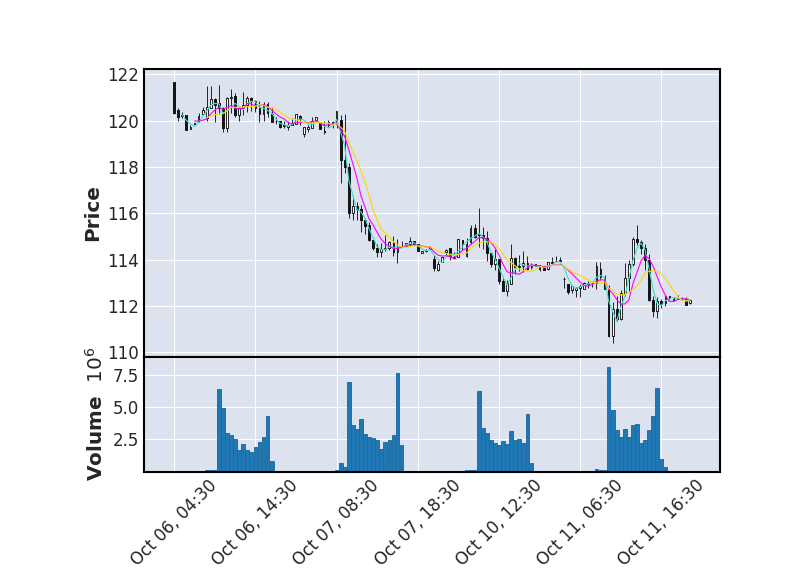
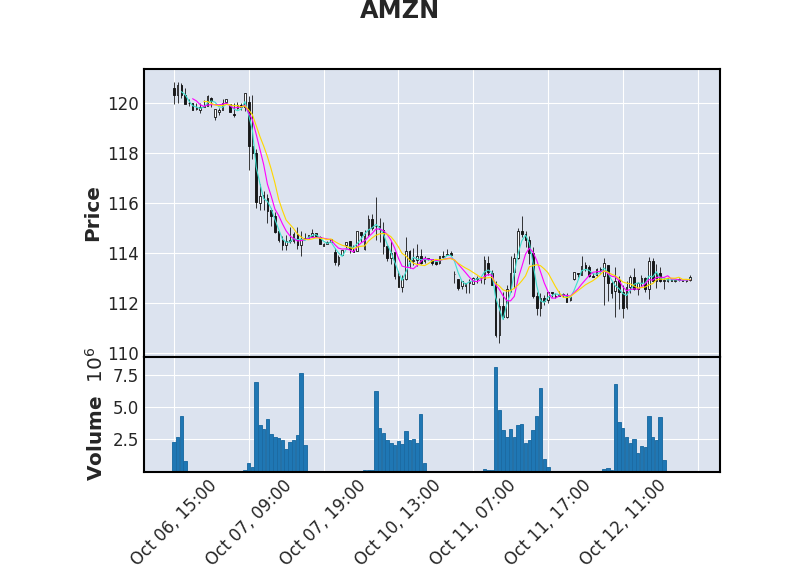
final con test funcionando

diff --git a/dags/modules/report.py b/dags/modules/report.py
@@ -6,6 +6,17 @@ from modules.ingest_data import stock_symbol
 
 engine = create_engine('postgresql://airflow:airflow@postgres:5432/stocks')
 
+
+def query(company):
+    #symbol = stock_symbol.get(company)
+    consulta = f"select * from stocks_values"
+    respuesta= pd.read_sql(consulta, engine)
+
+    query = respuesta.loc[respuesta['symbol']==company, ['fecha', 'v_open', 'v_high', 'v_low' ,'v_close', 'volume', 'symbol']].set_index('fecha').sort_index(ascending=True).rename(columns={'v_open': 'Open', 'v_high': 'High','v_low':'Low', 'v_close': 'Close', 'volume': 'Volume'})
+    #print(respuesta)
+    return query
+
+
 def reporting():
     for company, symbol in stock_symbol.items():
 
@@ -17,4 +28,4 @@ def reporting():
         #print(query)
         
         print(f'Drawing report for {company}  -  {symbol}')
-        mpf.plot(query, type='candle', mav=(3,6,9), volume=True, savefig= f'/opt/airflow/dags/reports/{company}-{symbol}.png')
+        mpf.plot(query, type='candle', mav=(3,6,9), volume=True, title =f'{symbol}' ,savefig= f'/opt/airflow/dags/reports/{company}-{symbol}.png')

diff --git a/dags/test/test_report.py b/dags/test/test_report.py
@@ -1,0 +1,11 @@
+import sys; sys.path.insert(1, '/opt/airflow/dags')
+import pytest
+from modules.report import query
+
+
+#print(query('GOOG')['symbol'].unique()[0])
+
+def test_db_query():
+    assert query('GOOG')['symbol'].unique()[0] == 'GOOG'
+    assert query('AMZN')['symbol'].unique()[0] == 'AMZN'
+    assert query('MSFT')['symbol'].unique()[0] == 'MSFT'
